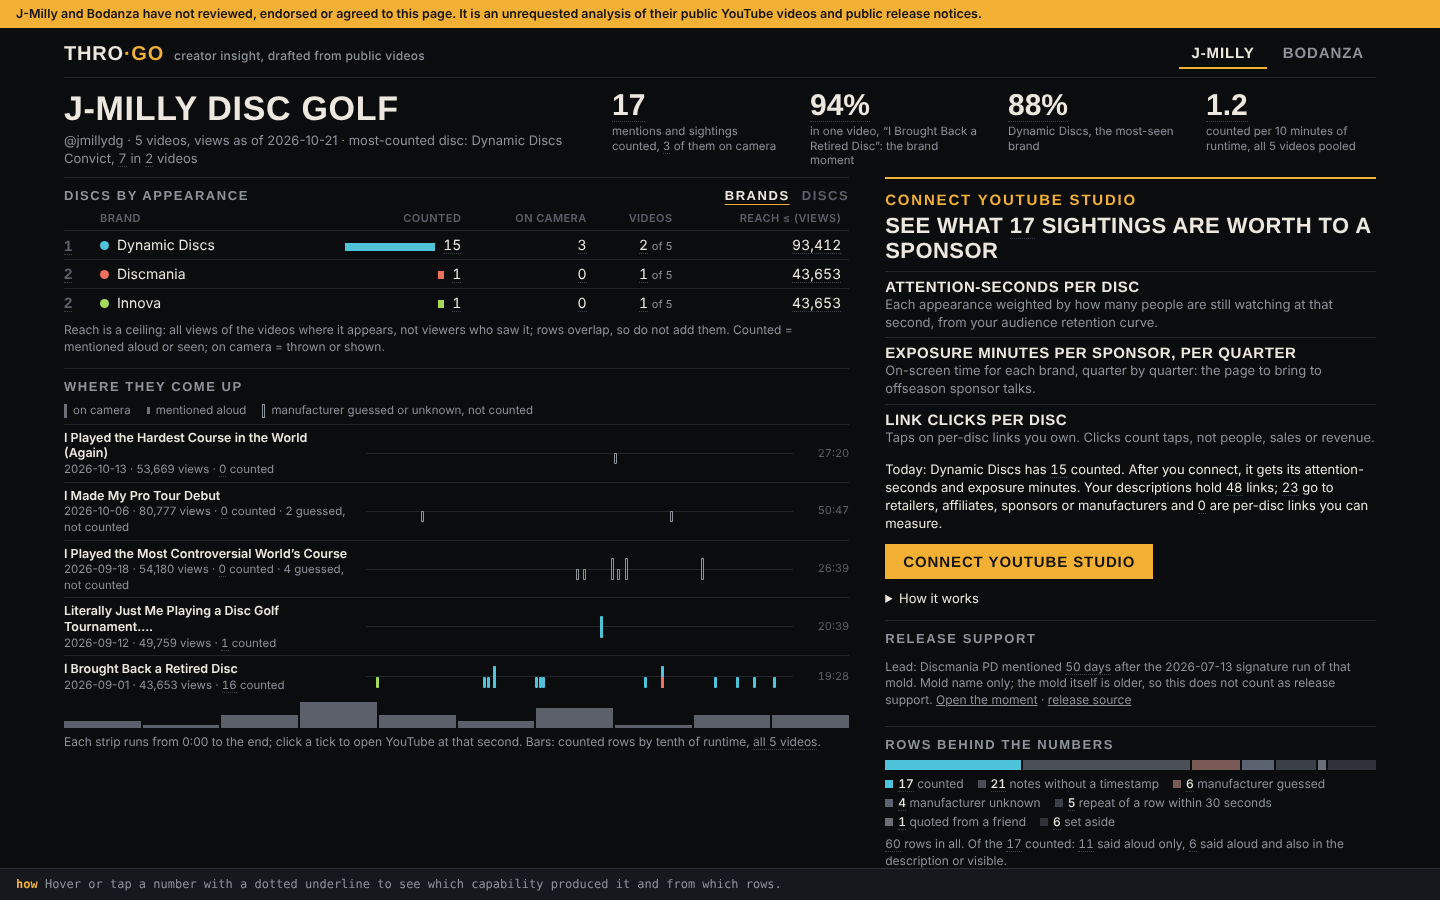
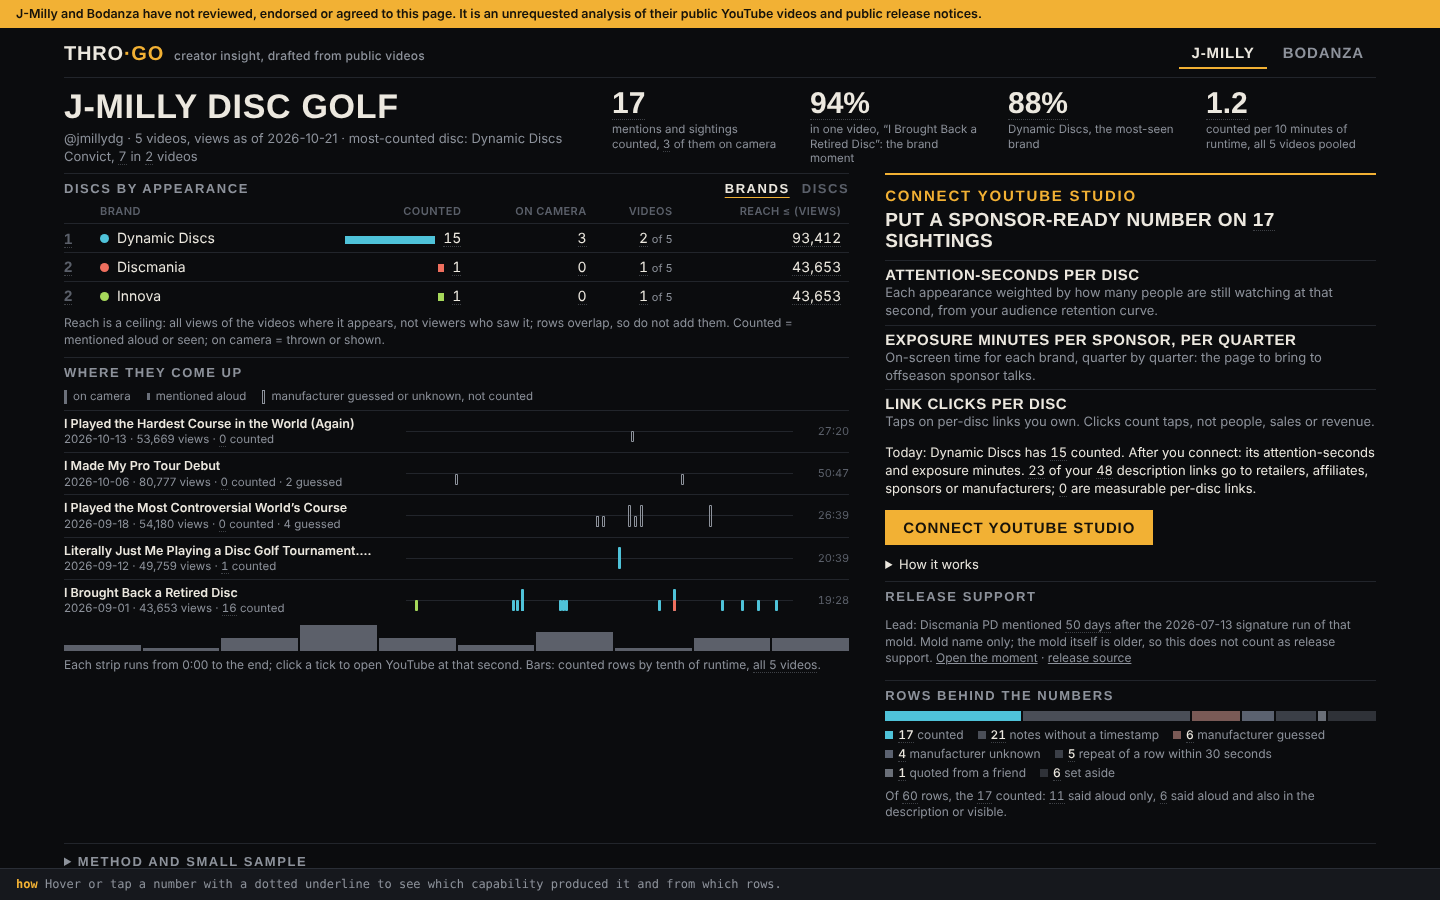
thro-go insights round 2 (Builder, from the Critic's review): offer above the fold, unreleased discs excluded, receipts list their rows
J-Milly 17 counted (6 unreleased set aside, 5 repeats merged, 1 quoted dropped), Bodanza 69.
thro.ratio and thro.positionHistogram registered in thro-capabilities/ with a catalog.
Release headline only when the mold itself was released in the window. Hedges moved to a
collapsed method section. noindex meta + _headers for the preview.

Claude-Session: https://claude.ai/code/session_018iN3mk7331DcyDcujukBDY

diff --git a/checkpoint/sources/pxcube/experiences/thro-go-insights/index.html b/checkpoint/sources/pxcube/experiences/thro-go-insights/index.html
@@ -2,6 +2,7 @@
 <html lang="en">
 <head>
 <meta charset="utf-8">
+<meta name="robots" content="noindex, nofollow">
 <meta name="viewport" content="width=device-width, initial-scale=1">
 <title>thro-go creator insight</title>
 <style>
@@ -25,7 +26,7 @@ nav.tabs{display:flex;gap:4px}
 nav.tabs button{background:none;border:0;border-bottom:2px solid transparent;color:var(--mute);font:600 15px var(--cond);letter-spacing:.06em;text-transform:uppercase;padding:6px 12px;cursor:pointer}
 nav.tabs button[aria-selected=true]{color:var(--ink);border-bottom-color:var(--amber)}
 nav.tabs button:focus-visible,.cta:focus-visible{outline:2px solid var(--amber);outline-offset:2px}
-.hero{padding:12px 0 10px;display:grid;grid-template-columns:minmax(0,1fr) auto;gap:10px 40px;align-items:end}
+.hero{padding:10px 0 8px;display:grid;grid-template-columns:minmax(0,1fr) auto;gap:10px 40px;align-items:end}
 h1{margin:0;font:700 34px/1 var(--cond);letter-spacing:.02em;text-transform:uppercase}
 .sub{color:var(--mute);margin-top:6px;font-size:13px}
 .lede{margin-top:4px;font-size:14px}
@@ -33,7 +34,7 @@ h1{margin:0;font:700 34px/1 var(--cond);letter-spacing:.02em;text-transform:uppe
 .stat .v{font:700 30px/1 var(--cond);font-variant-numeric:tabular-nums}
 .stat .l{font-size:11.5px;color:var(--mute);margin-top:4px;max-width:170px;line-height:1.25}
 .grid{display:grid;grid-template-columns:minmax(0,1.6fr) minmax(0,1fr);gap:0 36px;align-items:start}
-section{padding:10px 0 12px;border-top:1px solid var(--rule)}
+section{padding:7px 0 8px;border-top:1px solid var(--rule)}
 h2{margin:0 0 8px;font:700 13px var(--cond);letter-spacing:.12em;text-transform:uppercase;color:var(--mute);display:flex;justify-content:space-between;align-items:baseline;gap:12px}
 h2 .seg button{background:none;border:0;color:var(--dim);font:inherit;letter-spacing:inherit;text-transform:inherit;cursor:pointer;padding:0 0 0 12px}
 h2 .seg button[aria-pressed=true]{color:var(--ink);text-decoration:underline;text-decoration-color:var(--amber);text-underline-offset:4px}
@@ -49,7 +50,7 @@ table.ledger{width:100%;border-collapse:collapse;font-variant-numeric:tabular-nu
 .dot{display:inline-block;width:9px;height:9px;border-radius:50%;margin-right:8px;vertical-align:baseline}
 .bar{display:inline-block;height:8px;vertical-align:middle;margin-right:8px;min-width:2px}
 .ledger .sm{color:var(--mute);font-size:11px}
-.tl-row{display:grid;grid-template-columns:290px minmax(0,1fr) 44px;gap:12px;align-items:center;padding:5px 0;border-top:1px solid var(--rule)}
+.tl-row{display:grid;grid-template-columns:330px minmax(0,1fr) 44px;gap:12px;align-items:center;padding:5px 0;border-top:1px solid var(--rule)}
 .tl-title{font-size:12.5px;line-height:1.25;min-width:0}
 .tl-title b{font-weight:600;display:-webkit-box;-webkit-line-clamp:2;-webkit-box-orient:vertical;overflow:hidden}
 .tl-title span{color:var(--mute);font-size:11.5px}
@@ -80,9 +81,9 @@ table.ledger{width:100%;border-collapse:collapse;font-variant-numeric:tabular-nu
 .mixl b{color:var(--ink);font-weight:500}
 .offer{border-top:2px solid var(--amber);padding-top:12px}
 .offer h2{color:var(--amber);font-size:15px;margin-bottom:6px}
-.offer .say{font:700 22px/1.1 var(--cond);text-transform:uppercase;letter-spacing:.02em;margin:0 0 8px}
+.offer .say{font:700 19px/1.1 var(--cond);text-transform:uppercase;letter-spacing:.02em;margin:0 0 8px}
 .gets{margin:0;padding:0;list-style:none}
-.gets li{padding:6px 0;border-top:1px solid var(--rule);font-size:13px}
+.gets li{padding:5px 0;border-top:1px solid var(--rule);font-size:13px}
 .gets li b{display:block;font:700 15px var(--cond);letter-spacing:.04em;text-transform:uppercase}
 .gets li span{color:var(--mute)}
 .today{margin:8px 0;font-size:13px}
@@ -195,7 +196,7 @@ function render() {
   const timeline = `
     <div class="legend"><span><i style="height:14px"></i>on camera</span><span><i style="height:7px"></i>mentioned aloud</span><span><i class="h" style="height:14px"></i>manufacturer guessed or unknown, not counted</span></div>
     ${c.videos.map((v) => `<div class="tl-row">
-      <div class="tl-title"><b title="${esc(v.title)}">${esc(v.title)}</b><span>${esc(v.published_at)} &middot; ${fmt(v.views)} views &middot; ${N(v.counted, v.counted.v)} counted${v.guessedCount ? ` &middot; ${v.guessedCount} guessed, not counted` : ''}</span></div>
+      <div class="tl-title"><b title="${esc(v.title)}">${esc(v.title)}</b><span>${esc(v.published_at)} &middot; ${fmt(v.views)} views &middot; ${N(v.counted, v.counted.v)} counted${v.guessedCount ? ` &middot; ${v.guessedCount} guessed` : ''}</span></div>
       <div class="strip">${v.marks.map((m) => {
         const tip = `${m.brand} ${m.mold} at ${mmss(m.start)}, ${m.mode}${m.counted ? '' : ' (' + m.reason + ', not counted)'}`;
         return `<a class="tick ${m.mode !== 'talked' ? 'cam' : 'say'} ${m.counted ? '' : 'hollow'}" style="left:${(m.start / v.duration_seconds) * 100}%;${m.counted ? 'background:' + (colorOf[m.brand] ?? 'var(--cx)') : ''}" href="${m.url}" target="_blank" rel="noopener" title="${esc(tip)}" aria-label="${esc(tip)}"></a>`;
@@ -227,18 +228,18 @@ function render() {
   const rows = `
     <div class="mix">${c.fates.map((f) => `<i style="flex:${f.n.v};background:${fateCol[f.key]}"></i>`).join('')}</div>
     <div class="mixl">${c.fates.map((f) => `<span><span class="sw" style="background:${fateCol[f.key]}"></span><b>${N(f.n, f.n.v)}</b> ${fateLabel[f.key]}</span>`).join('')}</div>
-    <p class="note">${N(c.rowsTotal, c.rowsTotal.v)} rows in all. Of the ${N(c.counted, c.counted.v)} counted: ${c.evidence.map((e) => `${N(e.n, e.n.v)} ${esc(e.label)}`).join(', ')}.</p>`;
+    <p class="note">Of ${N(c.rowsTotal, c.rowsTotal.v)} rows, the ${N(c.counted, c.counted.v)} counted: ${c.evidence.map((e) => `${N(e.n, e.n.v)} ${esc(e.label)}`).join(', ')}.</p>`;
 
   // offer
   const offer = `
     <h2>Connect YouTube Studio</h2>
-    <p class="say">See what ${N(c.counted, c.counted.v)} sightings are worth to a sponsor</p>
+    <p class="say">Put a sponsor-ready number on ${N(c.counted, c.counted.v)} sightings</p>
     <ul class="gets">
       <li><b>Attention-seconds per disc</b><span>Each appearance weighted by how many people are still watching at that second, from your audience retention curve.</span></li>
       <li><b>Exposure minutes per sponsor, per quarter</b><span>On-screen time for each brand, quarter by quarter: the page to bring to offseason sponsor talks.</span></li>
       <li><b>Link clicks per disc</b><span>Taps on per-disc links you own. Clicks count taps, not people, sales or revenue.</span></li>
     </ul>
-    <p class="today">Today: ${esc(top.brand)} has ${N(top.n, top.n.v)} counted. After you connect, it gets its attention-seconds and exposure minutes. Your descriptions hold ${N(c.links.total, c.links.total.v)} links; ${N(c.links.paying, c.links.paying.v)} go to retailers, affiliates, sponsors or manufacturers and ${N(c.links.tracked, c.links.tracked.v)} are per-disc links you can measure.</p>
+    <p class="today">Today: ${esc(top.brand)} has ${N(top.n, top.n.v)} counted. After you connect: its attention-seconds and exposure minutes. ${N(c.links.paying, c.links.paying.v)} of your ${N(c.links.total, c.links.total.v)} description links go to retailers, affiliates, sponsors or manufacturers; ${N(c.links.tracked, c.links.tracked.v)} are measurable per-disc links.</p>
     <a class="cta" href="#connect" id="cta">Connect YouTube Studio</a>
     <details class="how-it-works" id="connect"><summary>How it works</summary><ol>
       <li>Sign in with Google and approve read-only access to this channel's YouTube analytics.</li>

diff --git a/checkpoint/sources/pxcube/experiences/thro-go-insights/BUILDER-NOTES.md b/checkpoint/sources/pxcube/experiences/thro-go-insights/BUILDER-NOTES.md
@@ -48,3 +48,53 @@ Banner at top on every view; "viewer-hours" absent (checked in rendered text); g
 - Reach is a ceiling dominated by the fact that nearly every video features some counted brand (Bodanza ceiling equals all views).
 - Page is dark-only; pitch table scrolls sideways inside its own box on a phone (page itself does not scroll sideways).
 - The "how" bar input preview is truncated for long arrays; the full input is in the capability receipt, not shown.
+
+---
+# Round 2
+
+Files added or changed: `build-data.mjs` (classification rewritten, no regex), `insights.mjs` (rewritten), `thro-capabilities/index.mjs` and `thro-capabilities/catalog.json` (new), `index.html` (layout and copy rewritten), `tools/export-catalog.mjs`, `tools/check.mjs`, `tools/shoot.mjs`. Screenshots: `shots/round2-desktop.png`, `shots/round2-phone.png` (J-Milly), `shots/round2-{desktop,phone}-{jmilly,bodanza}-full.png`, `shots/round2-desktop-receipt.png`.
+
+## Changed counts
+Rows are now classified once each, in this precedence: notes without a timestamp (candidate), set aside (unreleased disc), quoted from a friend, manufacturer unknown, manufacturer guessed, then counted; a counted row that repeats the same brand and mold in the same video within 30 seconds of an earlier counted row is "same moment" and not counted.
+J-Milly 28 to 17 counted (6 unreleased set aside, 5 repeats, 1 quoted row; Convict is 7 now, Dynamic Discs 15). Bodanza 73 to 69 (4 repeats). Of J-Milly's 17, 16 are in "I Brought Back a Retired Disc".
+
+## Unreleased discs (priority 2)
+The 6 timestamped rows whose mold is "Unreleased, name withheld" (ids 74 to 79, Discmania, J-Milly "Hardest Course" video) are excluded: not in any brand total, not in the Discs list, not drawn on the timeline, no link to the moment. The page shows only a generic "6 set aside" in the rows bar. The one candidate row (id 1) is already excluded as a note. For Sam to decide: if a creator should never see even that count, drop the "set aside" segment in `index.html` (`fateLabel.withheld`).
+
+## Finding by finding
+| # | Result | What I did |
+|---|---|---|
+| 1 | fixed | One exclusive classification drives both the bar and the sentence; the bar shows what happened to every row (counted, no timestamp, guessed, unknown, repeat, quoted, set aside) and the evidence classes are counted over counted rows only. Guessed shows 6 and 13 in both places. |
+| 2 | fixed | The footnote is derived from data (counted rows only, years from `release_date`); guessed rows no longer appear in release text at all. Bodanza shows "2 counted mentions of Discmania MD5 ... released in 2018". |
+| 3 | fixed | A match is headline-eligible only if no earlier `new mold` release row exists for that manufacturer and mold (`moldOld`). PD has a 2008 row, so it is a small lead line saying "mold name only; the mold itself is older, so this does not count as release support". No 22px headline remains for it. |
+| 4 | fixed | Regex removed. Id 111 is excluded by its evidence ("quote from a friend") and counted under "quoted from a friend". |
+| 5 | fixed | Same brand, mold and video within 30 seconds collapse to one counted moment (9 rows, includes ids 106 and 107). Labels say "mentions and sightings". |
+| 6 | fixed | `thro.ratio` and `thro.positionHistogram` now live in `thro-capabilities/index.mjs` with the Capability Lab descriptor shape, are registered in the same registry, have `thro-capabilities/catalog.json` with examples (all pass through `registry.execute`), and call `statistics.sum` and `statistics.histogram` through `ctx.call`. The receipt still names `thro.*` for those numbers; the page footer says they are defined in that catalog. Declined: adding files under `vendor/` (vendored, pinned). |
+| 7 | fixed | Each receipt lists the rows that went in ("#90 Dynamic Discs Convict at 11:22 (thrown)", "Discmania PD: video 2026-09-01 minus release 2026-07-13"); raw input is kept under it. |
+| 8 | fixed | No "vs", "Q4" or "calc" in rendered text (checked by regex on both tabs and both widths); "versus", "fourth quarter" replaced by "per quarter", "t statistic". |
+| 9 | fixed | "Clicks count taps, not people, sales or revenue" sits inside the Link clicks item of the offer. The word never appears in a count context elsewhere. |
+| 10 | fixed | Second stat tile: "94% in one video, 'I Brought Back a Retired Disc': the brand moment" (computed with `statistics.extrema` and `thro.ratio`; says "the busiest video" below 50%). |
+| 11 | fixed | See Unreleased discs above. |
+| 12 | fixed | Reach ceiling removed from the hero; it stays in the ledger column with one ceiling note. |
+| 13 | reframed | Linked-brand paired interval moved to the Method disclosure; the offer says "N of your M description links go to retailers, affiliates, sponsors or manufacturers; 0 are measurable per-disc links". |
+| 14 | fixed | Bodanza's release panel opens with the calendar sentence (covers 10 manufacturers; Infinite Discs, Trash Panda Disc Golf and Kastaplast are not in it yet). The guessed Discraft Buzz lead is dropped. |
+| 15 | fixed | Welch row and "How sure are we" moved into a collapsed "Method and small sample" disclosure; "small sample" is said there once. |
+| 16 | fixed | First tile: "mentions and sightings counted, N of them on camera". |
+| 17 | fixed | Hero rate is pooled (counted rows over total runtime, per 10 minutes: 1.2 and 3.9). The Method disclosure shows the average of the per-video rates and says which is which. |
+| 18 | fixed | Offer is the top of the right column (y = 177 at 1440x900): three one-sentence benefits, a "today" line using real numbers, a "Connect YouTube Studio" button that opens a four-step "How it works" (no fake success, no invented address; price and start date say "reply to the message that brought you here"). Assumption for Sam to confirm: the "read-only access to this channel's YouTube analytics" wording. |
+| 19 | fixed | One ceiling note, no repeated caveats; the clicks sentence and banner kept. |
+| 20 | fixed | The internal-data admission is gone; the offer says what thro-go does. |
+| 21 | partly | The line under the creator name now names the most-counted disc ("Dynamic Discs Convict, 7 in 2 videos"). Not done: stamp and run descriptions (Robert stamp, 2019 run); the data supports it, it is a possible round 3. |
+| D1 | fixed | The "how" bar is one idle line (it grows only when a number is hovered or tapped). At 1440x900 the right column ends above it (rows panel bottom 829 and 859 against bar top 868). |
+| D2 | partly | Offer, ledger, timeline, release and rows all sit in the first screen; page height is 939 (J-Milly) and 969 (Bodanza) because the collapsed Method disclosure is below. |
+| D3 | fixed | Columns are within about 30 px of each other. |
+| D4 | fixed | Title column 330 px, wraps to two lines; rows with guessed ticks say "N guessed". |
+| D5 | fixed | One hollow style, one legend entry. |
+| D6 | fixed | Amber is used only for thro (banner, active tab, offer). Brand colours are cyan, coral, lime, violet, pink. |
+| D7 | fixed | The offer is a list, not a table, so nothing is clipped at 390 px; the pitch table is gone. |
+| D8 | partly | Phone banner and header tightened, stat tiles in 2x2 at 23 px; first brand row at about y = 430. |
+| D9 | no action | Review said OK. |
+| D10 | fixed | Dotted underline is faint until hover or focus. |
+
+## Checks (Playwright, 1440x900 and 390x844, both tabs)
+Zero console or page errors and no failed requests; no horizontal scroll (scrollWidth 1440 and 390); banner present; "viewer-hours" absent; no "vs", "Q1" to "Q4", "Unreleased" or "name withheld" in the rendered text; "not people, sales or revenue" present.
